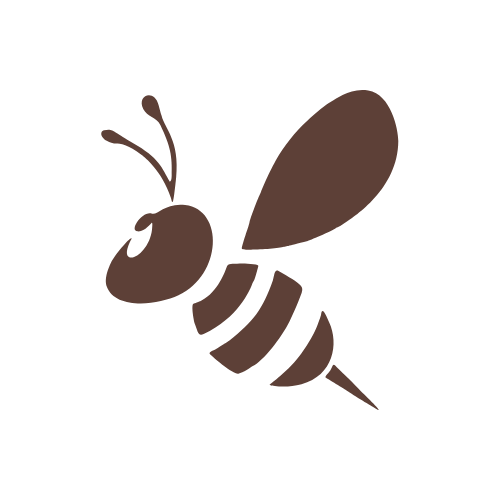
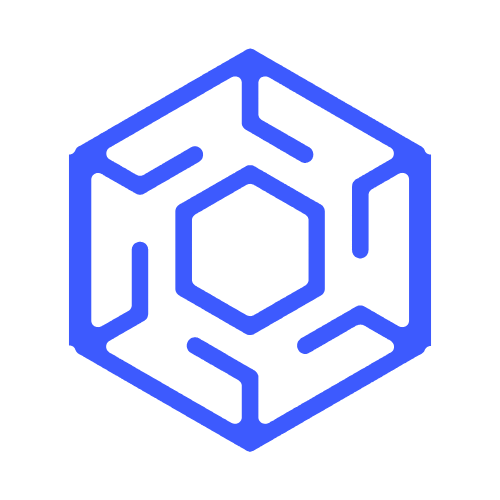
Replace shamwari's interim bee with its real mark
The hexagonal lattice icon in the canonical sodalite pair (#3D5AFE
for dark surfaces, #283593 for light), rasterized to transparent
500x500 PNGs from the uploaded SVGs (sources vendored alongside).
Registry comment updated; paths unchanged so no code changes needed.

Claude-Session: https://claude.ai/code/session_011opCsJ3rW3XPZNDSEvfpib

Changed region(s): [[0.12, 0.09, 0.87, 0.9]]

diff --git a/signature-generator/src/engines/brands/index.ts b/signature-generator/src/engines/brands/index.ts
@@ -137,8 +137,8 @@ export const TOP_BRANDS: Record<TopBrandKey, TopBrand> = {
     tagline: 'AI that actually works for Africa',
     lockupLabel: 'shamwari.ai',
     pillar: 'community',
-    // TODO(brand): shamwari's own mark is pending — these files are copies of
-    // the nyuchi bee per the owner's interim direction. Socials pending.
+    // Hexagonal lattice mark in the sodalite pair (#3D5AFE dark / #283593
+    // light); source SVGs vendored beside the PNGs. TODO(brand): socials.
     icon: {
       light: '/assets/brand-icons/shamwari-icon-light.png',
       dark: '/assets/brand-icons/shamwari-icon-dark.png',